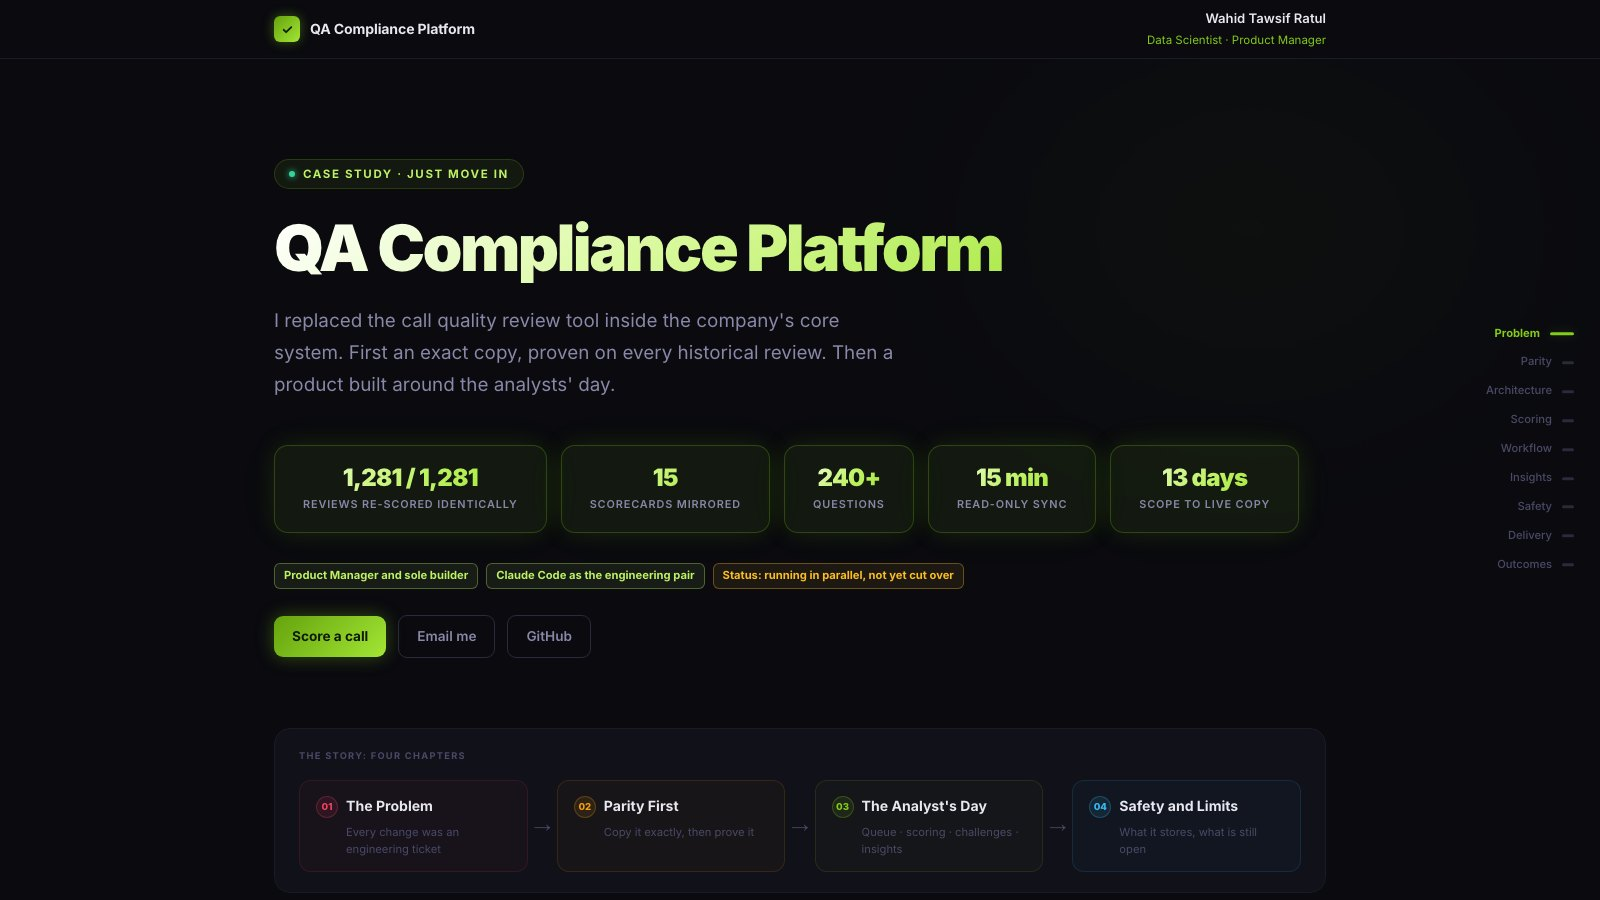
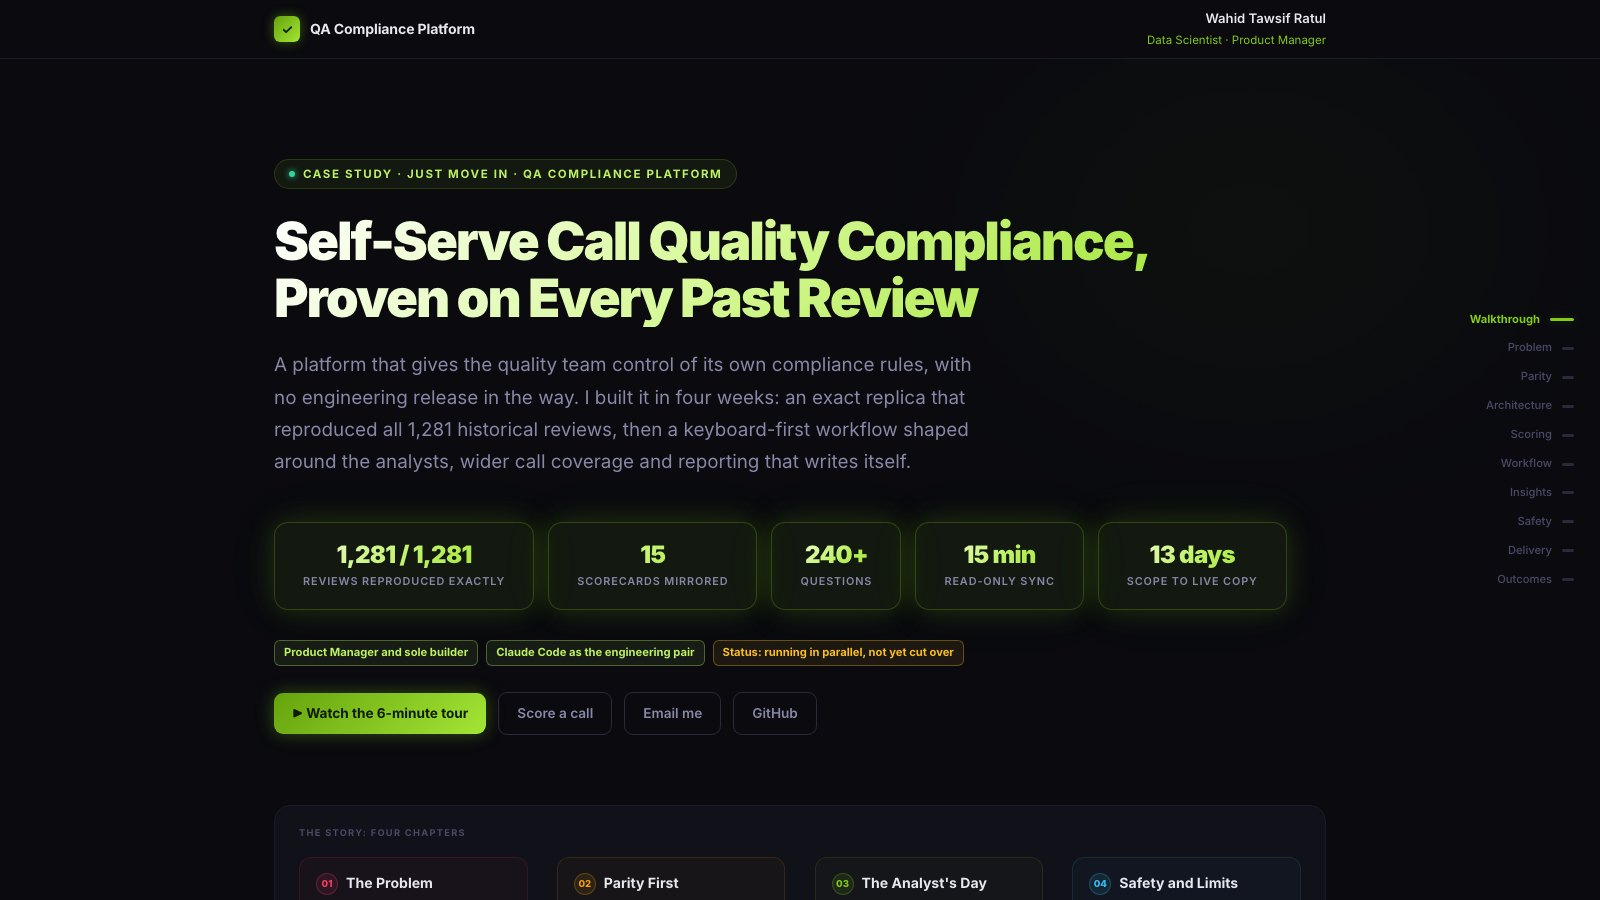
Portfolio: outcome-led title and summary for the QA Compliance Platform card

diff --git a/app/page.tsx b/app/page.tsx
@@ -218,7 +218,7 @@ const projects = [
       "Claude wired into 15+ production systems, with a harness that opens every session already knowing the repo and the metric definitions. AI-native classification auto-solves 52% of 117K tickets at 99.9% accuracy.",
   },
   {
-    title: "Rebuilt Call Quality Compliance and Proved It on 1,281 Reviews",
+    title: "Gave the Quality Team Self-Serve Compliance, Proven on 1,281 Reviews",
     name: "QA Compliance Platform",
     org: "Just Move In",
     label: "Compliance Product",
@@ -235,7 +235,7 @@ const projects = [
       { v: "15 min", l: "read-only sync" },
     ],
     detail:
-      "The old review tool could not be changed without an engineering release. I copied it exactly, proved the copy on every historical review, then rebuilt it around the analysts' day.",
+      "Gives the quality team control of its own compliance rules, with no engineering release in the way. An exact replica that reproduced all 1,281 historical reviews, then a workflow shaped around the analysts.",
   },
   {
     title: "Standardised Product Metrics Across 10+ SaaS Teams",
